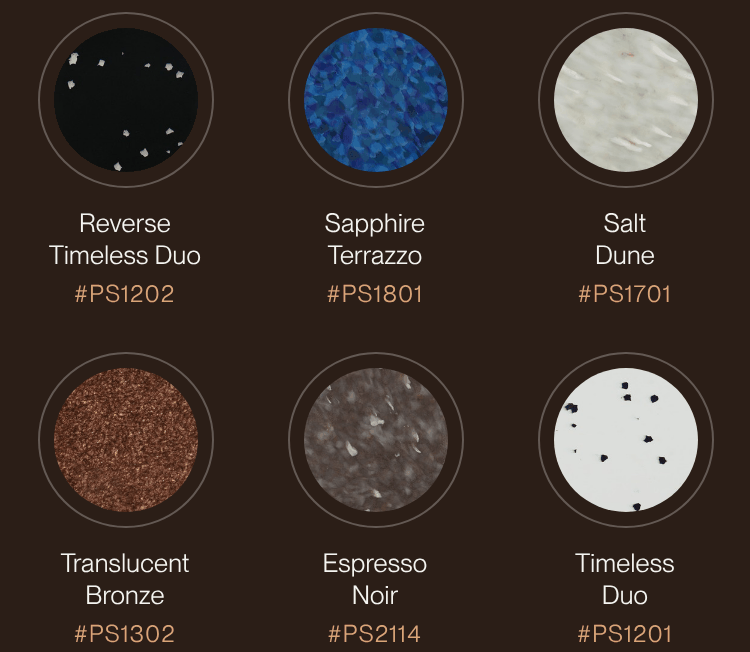
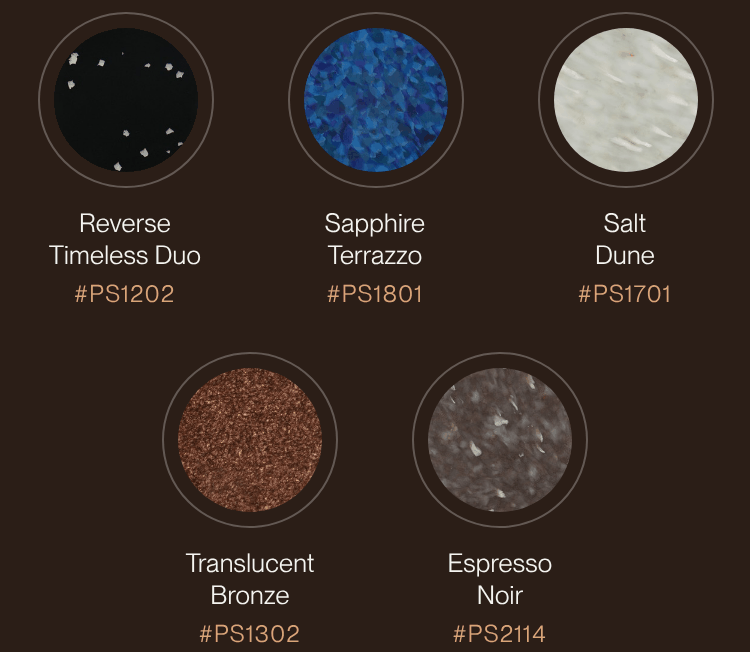
Remove Pinch Food Design from the Thanksgiving newsletter
The edition now has four projects: Sea Containers London, De Bijenkorf
Private Shopping, Paagman and Solané. Drops the dessert section and its
photo, the dessert row of the menu and Timeless Duo from the pattern
strip, and updates the counts, preheader, plain text and send notes.

Claude-Session: https://claude.ai/code/session_018ikPcLYRy9nXDYKrnJ1oFg

diff --git a/newsletters/2026-11-thanksgiving/email.html b/newsletters/2026-11-thanksgiving/email.html
@@ -7,7 +7,7 @@
 <meta name="format-detection" content="telephone=no, date=no, address=no, email=no">
 <meta name="color-scheme" content="light">
 <meta name="supported-color-schemes" content="light">
-<title>Five projects we’re thankful for · Polygood® Thanksgiving edition</title>
+<title>Four projects we’re thankful for · Polygood® Thanksgiving edition</title>
 <!--[if mso]>
 <noscript><xml><o:OfficeDocumentSettings><o:PixelsPerInch>96</o:PixelsPerInch></o:OfficeDocumentSettings></xml></noscript>
 <style>td,th,div,p,a,h1,h2,h3{font-family:Helvetica,Arial,sans-serif !important;}</style>
@@ -40,7 +40,7 @@
 <body id="body" style="margin:0; padding:0; background:#F5F4F1;">
 
 <!-- Preheader (shown after the subject line in most inboxes) -->
-<div style="display:none; font-size:1px; color:#F5F4F1; line-height:1px; max-height:0; max-width:0; opacity:0; overflow:hidden; mso-hide:all;">Sea Containers London, De Bijenkorf, Paagman, Solané and Pinch Food Design&#8199;&#847;&#8199;&#847;&#8199;&#847;&#8199;&#847;&#8199;&#847;&#8199;&#847;&#8199;&#847;&#8199;&#847;&#8199;&#847;&#8199;&#847;&#8199;&#847;&#8199;&#847;&#8199;&#847;&#8199;&#847;&#8199;&#847;&#8199;&#847;&#8199;&#847;&#8199;&#847;&#8199;&#847;&#8199;&#847;&#8199;&#847;&#8199;&#847;&#8199;&#847;&#8199;&#847;&#8199;&#847;</div>
+<div style="display:none; font-size:1px; color:#F5F4F1; line-height:1px; max-height:0; max-width:0; opacity:0; overflow:hidden; mso-hide:all;">Sea Containers London, De Bijenkorf, Paagman and Solané&#8199;&#847;&#8199;&#847;&#8199;&#847;&#8199;&#847;&#8199;&#847;&#8199;&#847;&#8199;&#847;&#8199;&#847;&#8199;&#847;&#8199;&#847;&#8199;&#847;&#8199;&#847;&#8199;&#847;&#8199;&#847;&#8199;&#847;&#8199;&#847;&#8199;&#847;&#8199;&#847;&#8199;&#847;&#8199;&#847;&#8199;&#847;&#8199;&#847;&#8199;&#847;&#8199;&#847;&#8199;&#847;</div>
 
 <table role="presentation" width="100%" cellpadding="0" cellspacing="0" border="0" bgcolor="#F5F4F1" style="background:#F5F4F1;">
 <tr>
@@ -75,12 +75,12 @@
         </tr>
         <tr>
           <td class="px" style="padding:14px 40px 0;">
-            <h1 class="h1" style="margin:0; font-family:'PP Neue Montreal','Helvetica Neue',Helvetica,Arial,sans-serif; font-size:46px; line-height:50px; font-weight:400; letter-spacing:-0.01em; color:#F5F4F1;">Five projects<br>we’re thankful for</h1>
+            <h1 class="h1" style="margin:0; font-family:'PP Neue Montreal','Helvetica Neue',Helvetica,Arial,sans-serif; font-size:46px; line-height:50px; font-weight:400; letter-spacing:-0.01em; color:#F5F4F1;">Four projects<br>we’re thankful for</h1>
           </td>
         </tr>
         <tr>
           <td class="px lead" style="padding:20px 40px 0; font-family:'PP Neue Montreal','Helvetica Neue',Helvetica,Arial,sans-serif; font-size:17px; line-height:26px; color:#E7E1D9;">
-            In the US, it is Thanksgiving week. We are borrowing the occasion to thank the hotels, stores, designers, makers and photographers behind five new Polygood® projects.
+            In the US, it is Thanksgiving week. We are borrowing the occasion to thank the hotels, stores, designers, makers and photographers behind four new Polygood® projects.
           </td>
         </tr>
         <tr>
@@ -98,29 +98,25 @@
                 <td valign="top" style="padding:11px 0; border-top:1px solid #4A3D35; font-family:'PP Neue Montreal','Helvetica Neue',Helvetica,Arial,sans-serif; font-size:15px; line-height:20px; color:#F5F4F1;">De Bijenkorf, Amsterdam</td>
               </tr>
               <tr>
-                <td width="118" valign="top" class="menu-label" style="width:118px; padding:11px 12px 11px 0; border-top:1px solid #4A3D35; font-family:'PP Neue Montreal','Helvetica Neue',Helvetica,Arial,sans-serif; font-size:13px; line-height:20px; color:#D9A577;">On the side</td>
-                <td valign="top" style="padding:11px 0; border-top:1px solid #4A3D35; font-family:'PP Neue Montreal','Helvetica Neue',Helvetica,Arial,sans-serif; font-size:15px; line-height:20px; color:#F5F4F1;">Paagman, The&nbsp;Hague · Solané,&nbsp;Zurich</td>
-              </tr>
-              <tr>
-                <td width="118" valign="top" class="menu-label" style="width:118px; padding:11px 12px 11px 0; border-top:1px solid #4A3D35; border-bottom:1px solid #4A3D35; font-family:'PP Neue Montreal','Helvetica Neue',Helvetica,Arial,sans-serif; font-size:13px; line-height:20px; color:#D9A577;">Dessert</td>
-                <td valign="top" style="padding:11px 0; border-top:1px solid #4A3D35; border-bottom:1px solid #4A3D35; font-family:'PP Neue Montreal','Helvetica Neue',Helvetica,Arial,sans-serif; font-size:15px; line-height:20px; color:#F5F4F1;">Pinch Food Design, New&nbsp;York</td>
+                <td width="118" valign="top" class="menu-label" style="width:118px; padding:11px 12px 11px 0; border-top:1px solid #4A3D35; border-bottom:1px solid #4A3D35; font-family:'PP Neue Montreal','Helvetica Neue',Helvetica,Arial,sans-serif; font-size:13px; line-height:20px; color:#D9A577;">On the side</td>
+                <td valign="top" style="padding:11px 0; border-top:1px solid #4A3D35; border-bottom:1px solid #4A3D35; font-family:'PP Neue Montreal','Helvetica Neue',Helvetica,Arial,sans-serif; font-size:15px; line-height:20px; color:#F5F4F1;">Paagman, The&nbsp;Hague · Solané,&nbsp;Zurich</td>
               </tr>
             </table>
           </td>
         </tr>
         <tr>
           <td style="padding:40px 0 0;">
-            <img src="images/00-patterns-table.png" width="600" alt="Six round samples, set like plates: Reverse Timeless Duo #PS1202, Sapphire Terrazzo #PS1801, Salt Dune #PS1701, Translucent Bronze #PS1302, Espresso Noir #PS2114 and Timeless Duo #PS1201." class="full hide-sm" style="width:600px; max-width:100%; height:auto; display:block; color:#B9B1A8; font-family:Helvetica,Arial,sans-serif; font-size:12px;">
+            <img src="images/00-patterns-table.png" width="600" alt="Five round samples, set like plates: Reverse Timeless Duo #PS1202, Sapphire Terrazzo #PS1801, Salt Dune #PS1701, Translucent Bronze #PS1302 and Espresso Noir #PS2114." class="full hide-sm" style="width:600px; max-width:100%; height:auto; display:block; color:#B9B1A8; font-family:Helvetica,Arial,sans-serif; font-size:12px;">
             <!--[if !mso]><!-->
             <div class="show-sm" style="display:none; max-height:0; overflow:hidden; mso-hide:all;">
-              <img src="images/00-patterns-table-mobile.png" width="375" alt="Six round samples, set like plates: Reverse Timeless Duo #PS1202, Sapphire Terrazzo #PS1801, Salt Dune #PS1701, Translucent Bronze #PS1302, Espresso Noir #PS2114 and Timeless Duo #PS1201." style="width:375px; max-width:100%; height:auto; display:block; margin:0 auto; color:#B9B1A8; font-family:Helvetica,Arial,sans-serif; font-size:12px;">
+              <img src="images/00-patterns-table-mobile.png" width="375" alt="Five round samples, set like plates: Reverse Timeless Duo #PS1202, Sapphire Terrazzo #PS1801, Salt Dune #PS1701, Translucent Bronze #PS1302 and Espresso Noir #PS2114." style="width:375px; max-width:100%; height:auto; display:block; margin:0 auto; color:#B9B1A8; font-family:Helvetica,Arial,sans-serif; font-size:12px;">
             </div>
             <!--<![endif]-->
           </td>
         </tr>
         <tr>
           <td class="px" style="padding:14px 40px 40px; font-family:'PP Neue Montreal','Helvetica Neue',Helvetica,Arial,sans-serif; font-size:13px; line-height:20px; color:#B9B1A8;">
-            The six patterns at this year’s table. Our favourite kind of leftovers: old refrigerators, computer mice, CD cases and spools, pressed into new panels.
+            The five patterns at this year’s table. Our favourite kind of leftovers: old refrigerators, computer mice, CD cases and spools, pressed into new panels.
           </td>
         </tr>
       </table>
@@ -285,46 +281,12 @@
     </td>
   </tr>
 
-  <!-- ===================== 5. PINCH FOOD DESIGN (dessert) ===================== -->
-  <tr>
-    <td style="padding:52px 0 0;">
-      <table role="presentation" width="100%" cellpadding="0" cellspacing="0" border="0" bgcolor="#EDE3D6" style="background:#EDE3D6;">
-        <tr>
-          <td class="px" style="padding:40px 40px 0; font-family:'PP Neue Montreal','Helvetica Neue',Helvetica,Arial,sans-serif; font-size:16px; line-height:22px; color:#7E4626;">Thank you, Pinch</td>
-        </tr>
-        <tr>
-          <td class="px" style="padding:6px 40px 0; font-family:'PP Neue Montreal','Helvetica Neue',Helvetica,Arial,sans-serif; font-size:11px; line-height:16px; letter-spacing:0.16em; text-transform:uppercase; color:#5F5A55;">Dessert · Catering · New&nbsp;York</td>
-        </tr>
-        <tr>
-          <td class="px" style="padding:10px 40px 20px;">
-            <h2 class="h2" style="margin:0; font-family:'PP Neue Montreal','Helvetica Neue',Helvetica,Arial,sans-serif; font-size:30px; line-height:35px; font-weight:400; color:#252525;">Pinch Food Design</h2>
-          </td>
-        </tr>
-        <tr>
-          <td class="px" style="padding:0 40px;">
-            <a href="https://polygood.com/product/timeless-duo/" style="text-decoration:none;"><img src="images/09-pinch-food-design-dessert-table.jpg" width="520" alt="Cheesecakes on red and blue stands, served from a white, black-flecked Timeless Duo table at a Pinch Food Design event." class="full" style="width:100%; max-width:520px; height:auto; display:block; color:#5F5A55; font-family:Helvetica,Arial,sans-serif; font-size:12px;"></a>
-          </td>
-        </tr>
-        <tr>
-          <td class="px" style="padding:8px 40px 0; font-family:'PP Neue Montreal','Helvetica Neue',Helvetica,Arial,sans-serif; font-size:11px; line-height:16px; color:#5F5A55;">Design, fabrication and food: Pinch Food Design · Photography: Kelsey Cherry</td>
-        </tr>
-        <tr>
-          <td class="px" style="padding:20px 40px 0; font-family:'PP Neue Montreal','Helvetica Neue',Helvetica,Arial,sans-serif; font-size:16px; line-height:25px; color:#252525;">
-            <p style="margin:0;">New York caterer Pinch Food Design designs the tables its food is served from, not only the menu. Its serving tables and trays in Polygood® Timeless Duo, Pattern No&nbsp;5 and Marble Desert travel with the team from event to event, cheesecake table included.</p>
-          </td>
-        </tr>
-        <tr>
-          <td class="px" style="padding:16px 40px 44px; font-family:'PP Neue Montreal','Helvetica Neue',Helvetica,Arial,sans-serif; font-size:14px; line-height:20px;">
-            <a href="https://polygood.com/product/timeless-duo/" class="link-ink" style="color:#252525; text-decoration:underline;">See Timeless Duo #PS1201</a>
-          </td>
-        </tr>
-      </table>
-    </td>
-  </tr>
+  <!-- divider -->
+  <tr><td class="px" style="padding:48px 40px 0;"><table role="presentation" width="100%" cellpadding="0" cellspacing="0" border="0"><tr><td height="1" style="height:1px; line-height:1px; font-size:1px; background:#D9D6D0;">&nbsp;</td></tr></table></td></tr>
 
   <!-- ===================== MATERIAL LINE + THANK YOU ===================== -->
   <tr>
-    <td class="px" style="padding:48px 40px 0; font-family:'PP Neue Montreal','Helvetica Neue',Helvetica,Arial,sans-serif; font-size:20px; line-height:28px; color:#252525;">
+    <td class="px" style="padding:40px 40px 0; font-family:'PP Neue Montreal','Helvetica Neue',Helvetica,Arial,sans-serif; font-size:20px; line-height:28px; color:#252525;">
       Every surface in this edition is Polygood®: 100% recycled polystyrene, and recyclable again at the end of its life.
     </td>
   </tr>

diff --git a/newsletters/2026-11-thanksgiving/README.md b/newsletters/2026-11-thanksgiving/README.md
@@ -1,34 +1,33 @@
 # Polygood® newsletter: Thanksgiving edition (send 27 November 2026)
 
-Email-ready HTML for the whole database. Five projects, framed as a Thanksgiving menu: Sea Containers London to start, De Bijenkorf as the main, Paagman and Solané on the side, Pinch Food Design for dessert.
+Email-ready HTML for the whole database. Four projects, framed as a Thanksgiving menu: Sea Containers London to start, De Bijenkorf as the main, Paagman and Solané on the side.
 
 | File | What it is |
 |---|---|
 | `email.html` | The newsletter. 600 px, table layout, inline styles, Mailchimp merge tags in the header and footer |
-| `images/` | 12 images, about 810 KB in total, sized at 2× for sharp screens |
+| `images/` | 11 images, about 690 KB in total, sized at 2× for sharp screens |
 | `plain-text.txt` | Plain-text version for the campaign's text part |
 | `polygood-thanksgiving-2026-mailchimp.zip` (not committed) | `index.html` + `images/`, for Mailchimp's *Code your own → Import zip* |
 
 ## Subject line and preheader
 
-- **Subject:** Five projects we’re thankful for (32 characters)
-- **A/B alternative:** Sea Containers London, De Bijenkorf and three more (50)
-- **Preheader** (already in the HTML): Sea Containers London, De Bijenkorf, Paagman, Solané and Pinch Food Design (74)
+- **Subject:** Four projects we’re thankful for (32 characters)
+- **A/B alternative:** Sea Containers London, De Bijenkorf and two more (48)
+- **Preheader** (already in the HTML): Sea Containers London, De Bijenkorf, Paagman and Solané (55)
 - **From name:** Polygood® by The Good Plastic Company (or your usual sender name)
 
 The send date is Black Friday, so most inboxes will be full of sales mail. A thank-you subject with no offer in it should stand out among them.
 
 ## Structure
 
-1. Header on a dark espresso band: “Five projects we’re thankful for”, a short lead, *Today’s menu* (doubles as the table of contents) and a row of six pattern samples set like plates. The caption calls the source materials “our favourite kind of leftovers”.
+1. Header on a dark espresso band: “Four projects we’re thankful for”, a short lead, *Today’s menu* (doubles as the table of contents) and a row of five pattern samples set like plates. The caption calls the source materials “our favourite kind of leftovers”.
 2. **To start:** Sea Containers London, Thames Suites (Lore Group). Hero photo plus two smaller ones.
 3. **Main:** De Bijenkorf, Private Shopping (the new Milenka Backx photographs). Large photo plus two smaller ones.
 4. **On the side:** Paagman, Lange Poten (The Hague) and Solané (Zurich) in two columns. The columns stack on phones.
-5. **Dessert:** Pinch Food Design, New York, on an oat-coloured band, with the cheesecake photo.
-6. The material line, a thank-you in four languages (cheers, dank je wel, merci vielmal, happy Thanksgiving), then *Order samples* and *See all projects*.
-7. Footer with Instagram, LinkedIn, *Talk to our team* and the Mailchimp permission, address and unsubscribe tags.
+5. The material line, a thank-you in four languages (cheers, dank je wel, merci vielmal, happy Thanksgiving), then *Order samples* and *See all projects*.
+6. Footer with Instagram, LinkedIn, *Talk to our team* and the Mailchimp permission, address and unsubscribe tags.
 
-Each project opens with a thank-you in the local language: *Cheers, Lore Group* · *Dank je wel, De Bijenkorf* · *Bedankt, Paagman* · *Merci vielmal, Solané* · *Thank you, Pinch*.
+Each project opens with a thank-you in the local language: *Cheers, Lore Group* · *Dank je wel, De Bijenkorf* · *Bedankt, Paagman* · *Merci vielmal, Solané*.
 
 ## Colour scheme
 
@@ -39,17 +38,15 @@ Brand base: paper `#F5F4F1`, ink `#252525`, hairline `#D9D6D0`, from the TGPC de
 | Espresso band | `#2B1E17` | Translucent Bronze and Espresso Noir | Header and footer |
 | Bronze | `#8A4F2A` | Translucent Bronze | Thank-you lines on paper (5.9:1 on paper) |
 | Bronze light | `#D9A577` | Translucent Bronze highlights | Labels on the espresso band (7.4:1) |
-| Oat | `#EDE3D6` | Salt Dune and De Bijenkorf’s cream tones | Dessert band |
 
 Secondary text uses `#6B6762` instead of the brand `#77736E`. The brand grey is 4.3:1 on paper, below the 4.5:1 that small captions need.
 
-The colours of the five projects:
+The colours of the four projects:
 
 - Sea Containers London: black, blue and teal-grey, with brass and citrus in the hero shot.
 - De Bijenkorf: cream, taupe and burl-wood brown. This is the most autumnal set of photos.
-- Paagman: cobalt blue, salmon pink, mint and a black-and-white floor. It is the brightest and coolest of the five. It sits in the side column at half width, so it doesn’t fight the warm header.
+- Paagman: cobalt blue, salmon pink, mint and a black-and-white floor. It is the brightest and coolest of the four. It sits in the side column at half width, so it doesn’t fight the warm header.
 - Solané: bronze-brown counter, paper lantern, maple and concrete.
-- Pinch: red and blue cake stands on white, black-flecked Timeless Duo.
 
 ## Before sending: checklist
 
@@ -57,8 +54,7 @@ The colours of the five projects:
 - [ ] **De Bijenkorf link** goes to the existing case (`/projects/de-bijenkorf/`, Salmon Terra stands). Ideally add the Private Shopping photos to that page before sending.
 - [ ] **Solané patterns.** Translucent Bronze (#PS1302) and Espresso Noir (#PS2114) were identified from the photos, and the case draft still says “to confirm”. Check with Andreas Spörri or the invoice for order U-10865. If they can’t be confirmed, remove the two pattern names from the Solané text and point its link to `/projects/`.
 - [ ] **Paagman is in The Hague**, not Rotterdam: Lange Poten 13-15, Den Haag, per the Project images entry.
-- [ ] **Image rights for a newsletter.** Sea Containers London cleared the photos for “website and social channels”, and De Bijenkorf for “Instagram and a website case study”. A newsletter is usually treated the same way. If you want it in writing, ask Anna Ashmore (Sea Containers) and Gonnie Janssen (De Bijenkorf) for a one-line OK. Paagman (“free to publish”), Solané (“happy for us to post”) and Pinch (agreement on file) are covered.
-- [ ] **Pinch Food Design**: the Furniture newsletter draft from November also features Pinch. If that edition has already gone out, either keep Pinch here as dessert or swap in another project.
+- [ ] **Image rights for a newsletter.** Sea Containers London cleared the photos for “website and social channels”, and De Bijenkorf for “Instagram and a website case study”. A newsletter is usually treated the same way. If you want it in writing, ask Anna Ashmore (Sea Containers) and Gonnie Janssen (De Bijenkorf) for a one-line OK. Paagman (“free to publish”) and Solané (“happy for us to post”) are covered.
 - [ ] Send a test to Gmail, Outlook and an iPhone. Mailchimp fills in the `*|…|*` merge tags at send time, so the local preview shows them raw.
 
 ## Credits used (as each partner asked)
@@ -69,7 +65,6 @@ The colours of the five projects:
 | De Bijenkorf | New photography: Milenka Backx · Design: Random Studio | Gonnie Janssen email 16 Nov 2026 |
 | Paagman | Photography: Fleur Huijsdens (from the file name); design ACES of SPACE and +31 ARCHITECTS in the text | Project images entry: “Mention Paagman and designers” |
 | Solané | Photography: Solané | Andreas Spörri email 3 Nov 2026: credit Solané, not Pelikamo |
-| Pinch Food Design | Design, fabrication and food: Pinch Food Design · Photography: Kelsey Cherry | Project images entry |
 
 ## Links in the email
 
@@ -79,12 +74,11 @@ The colours of the five projects:
 | De Bijenkorf (photo and button) | https://polygood.com/projects/de-bijenkorf/ |
 | Paagman | https://polygood.com/product/sapphire-terrazzo/ |
 | Solané | https://polygood.com/product/translucent-bronze/ |
-| Pinch Food Design | https://polygood.com/product/timeless-duo/ |
 | Order samples | https://polygood.com/order-samples/ |
 | See all projects | https://polygood.com/projects/ |
 | Footer | Instagram, LinkedIn, https://polygood.com/contact-us/ |
 
-Pattern codes and origins were checked against polygood.com on 26 Nov 2026: Reverse Timeless Duo #PS1202, Sapphire Terrazzo #PS1801 (blue spools), Salt Dune #PS1701 (white spools), Translucent Bronze #PS1302 (CD cases), Espresso Noir #PS2114, Timeless Duo #PS1201.
+Pattern codes and origins were checked against polygood.com on 26 Nov 2026: Reverse Timeless Duo #PS1202, Sapphire Terrazzo #PS1801 (blue spools), Salt Dune #PS1701 (white spools), Translucent Bronze #PS1302 (CD cases) and Espresso Noir #PS2114.
 
 ## Import into Mailchimp
 
